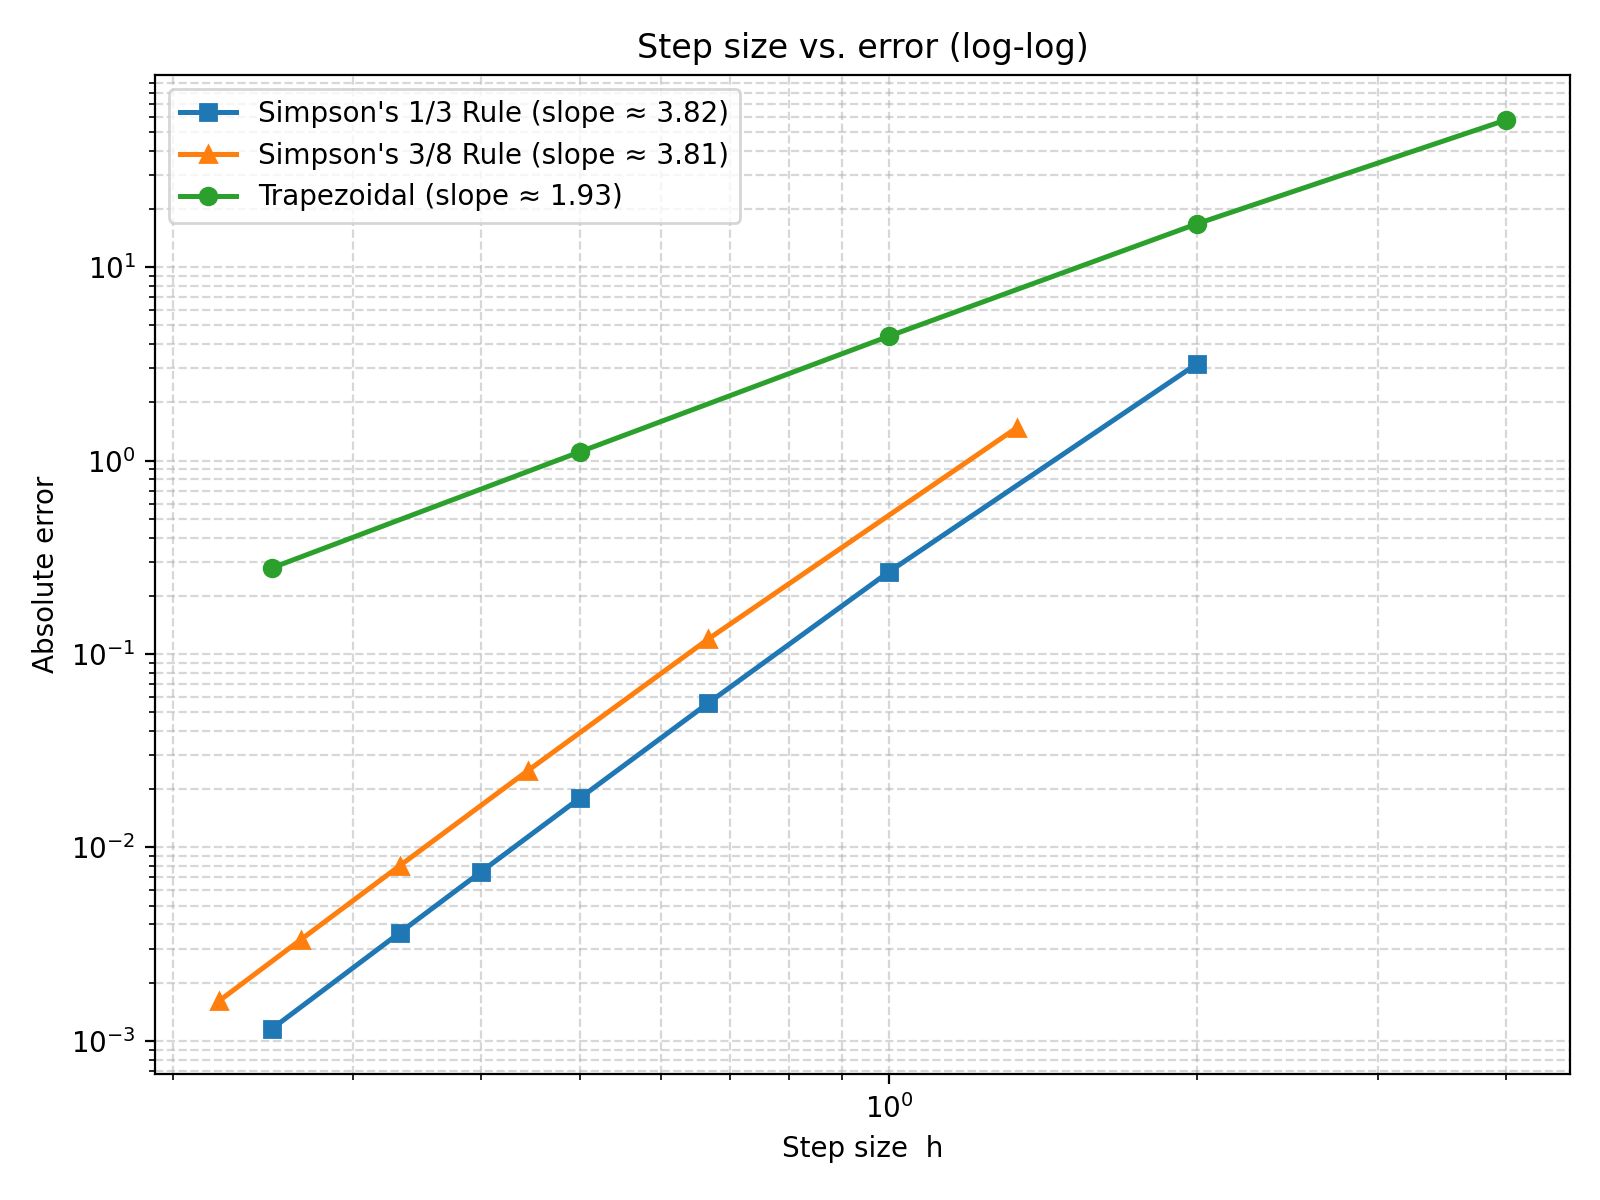
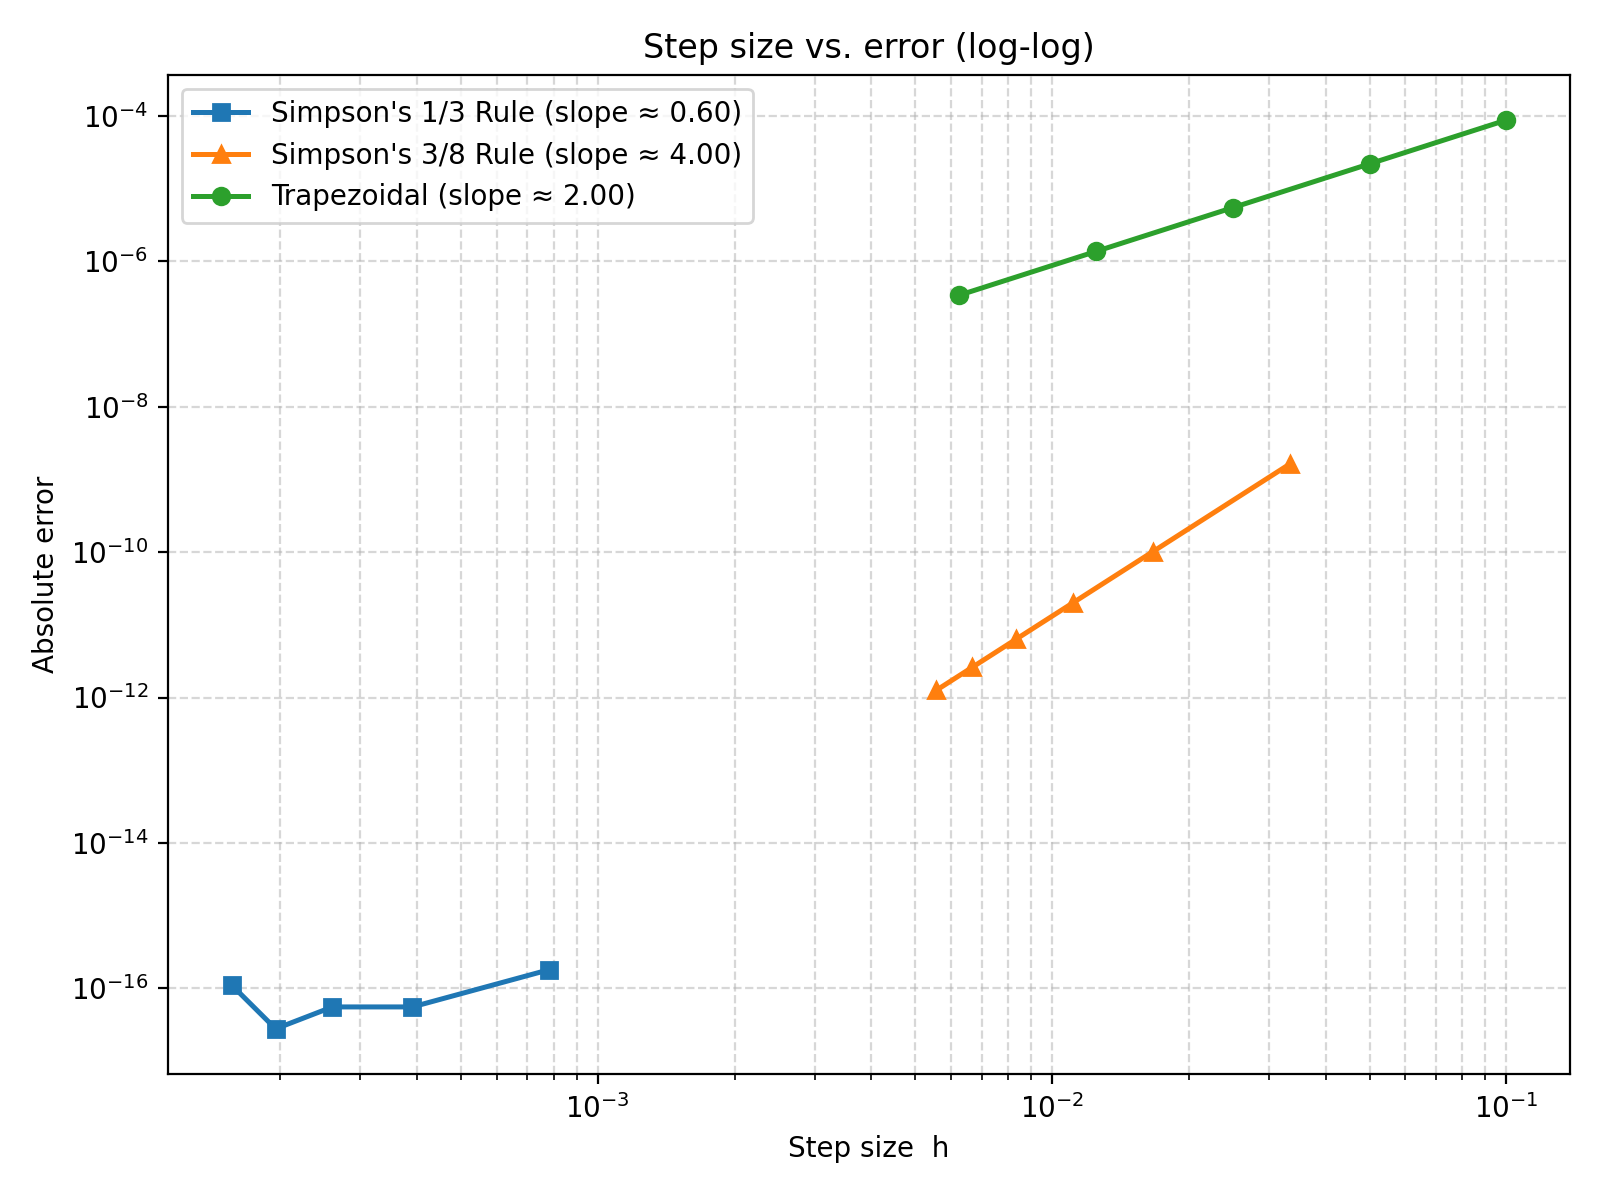
updated main

diff --git a/Python_Matrix/Numerical_differentiation/main/main.py b/Python_Matrix/Numerical_differentiation/main/main.py
@@ -141,7 +141,7 @@ def run_integration():
 
     methods = [
         (TrapezoidalRule(), [1, 2, 4, 8, 16]),
-        (Simpson13Rule(), [2, 4, 6, 8, 10, 12, 16]),
+        (Simpson13Rule(), [128,256,384,512,640]),
         (Simpson38Rule(), [3, 6, 9, 12, 15, 18])
     ]
 

diff --git a/Python_Matrix/Numerical_differentiation/src/simpsons1_3.py b/Python_Matrix/Numerical_differentiation/src/simpsons1_3.py
@@ -1,6 +1,5 @@
 from src.base import IntegrationMethod
 
-
 class Simpson13Rule(IntegrationMethod):
     def __init__(self):
         super().__init__("Simpson's 1/3 Rule")
